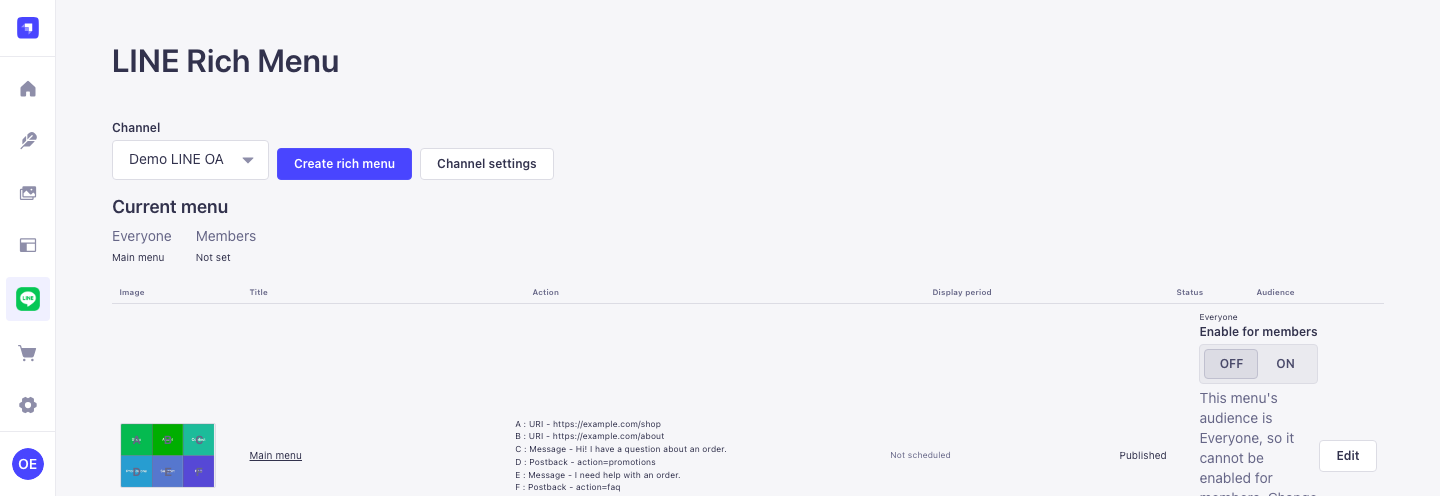
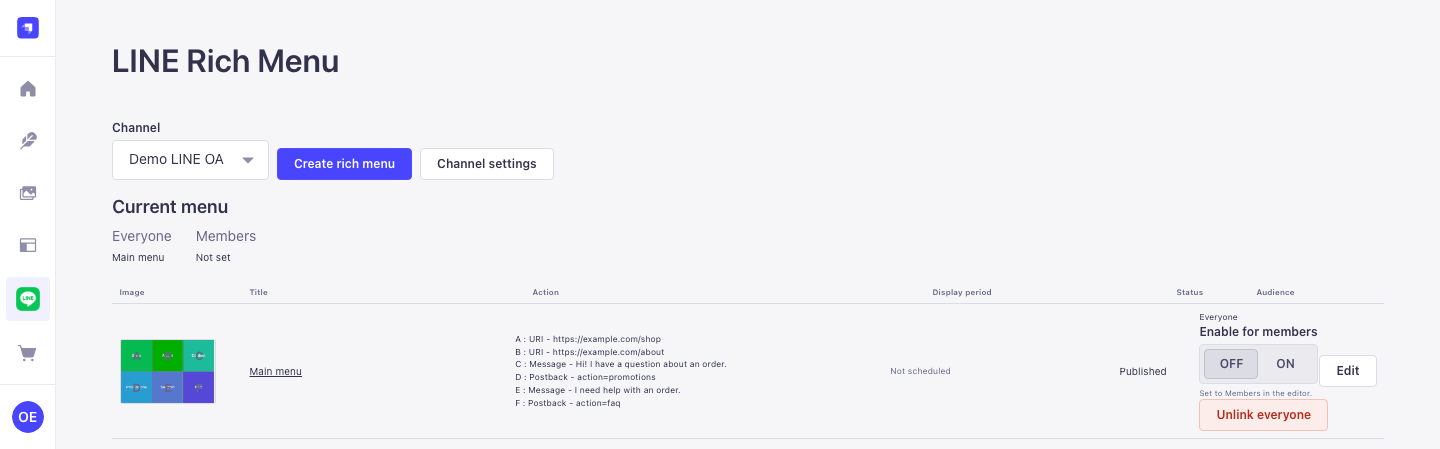
fix(ui): stop the audience cell's explanation from dictating the row height
On the demo the disabled-toggle hint was a full sentence wrapping to eight lines
in a narrow column, pushing one row to roughly 400px tall, and "Unlink everyone"
was breaking mid-phrase into what read as two stacked buttons.

Three changes, smallest first:

- The copy said what the neighbouring columns already show. Audience prints
  "Everyone" directly above the switch and Status prints "Published" beside it,
  so "This menu's audience is Everyone, so it cannot be enabled for members.
  Change its audience to Members in the editor first." spent seven lines to add
  one instruction. It is now "Set to Members in the editor." — the same for the
  unpublished case, which had the same shape.
- The hint renders as a hint: smaller than body text, muted, using the port's
  theme rather than a hardcoded colour.
- `minWidth` on the cell, not `nowrap`. The text must still be allowed to wrap —
  Thai and English are different lengths and the window is resizable — what has
  to stop is a column so narrow that a short sentence becomes a paragraph. The
  Unlink button gets `nowrap` specifically, because a button whose label breaks
  reads as two buttons.

Screenshots reshot and inspected, not just regenerated.

Claude-Session: https://claude.ai/code/session_01Hvr9oQVyK1MpQbfYnv15Uo

diff --git a/packages/ui/src/pages/RichMenuList.tsx b/packages/ui/src/pages/RichMenuList.tsx
@@ -188,7 +188,11 @@ export function RichMenuList({ channelId }: { channelId: string | null }) {
               </button>
             </div>
 
-            <div role="cell" style={{ ...cell, flexDirection: 'column', alignItems: 'flex-start' }}>
+            {/* `minWidth` ที่นี่ ไม่ใช่ `whiteSpace: nowrap` — คำอธิบายใต้สวิตช์ต้องขึ้นบรรทัดใหม่ได้
+                (ภาษาไทยกับอังกฤษยาวไม่เท่ากัน และผู้ใช้ย่อหน้าต่างได้) สิ่งที่ต้องกันคือคอลัมน์ที่แคบ
+                จนประโยคสั้น ๆ ตัดเป็นสิบบรรทัดแล้วดันความสูงของทั้งแถวขึ้นไปหลายร้อยพิกเซล ซึ่งเป็น
+                อาการที่เห็นจริงบนเดโม — ปุ่ม "Unlink everyone" ก็ถูกตัดกลางคำด้วยเหตุผลเดียวกัน */}
+            <div role="cell" style={{ ...cell, flexDirection: 'column', alignItems: 'flex-start', minWidth: 190 }}>
               {menu.areas.length === 0
                 ? <span style={{ color: theme.mutedText }}>—</span>
                 : menu.areas.map((area, index) => (
@@ -230,6 +234,9 @@ export function RichMenuList({ channelId }: { channelId: string | null }) {
                   บรรทัดเดียวที่อยู่เหนือปุ่มนี้ขึ้นบรรทัดเดียวก็ครอบทั้งสองปุ่มได้อยู่แล้วเพราะเหตุผล
                   เดียวกันเป๊ะ ๆ ซ้ำคำจะดูเหมือนบั๊ก UI มากกว่าช่วยอะไร (ตัดสินใจตามที่ brief เปิดทางไว้:
                   "or the control needs a different treatment") */}
+              {/* ห่อด้วย nowrap เพราะคอลัมน์นี้แคบพอที่ "Unlink everyone" จะถูกตัดกลางเป็นสองบรรทัด
+                  ปุ่มที่ข้อความขึ้นบรรทัดใหม่อ่านเหมือนปุ่มสองปุ่มซ้อนกัน */}
+              <div style={{ whiteSpace: 'nowrap' }}>
               <ui.Button
                 variant="danger"
                 testId={`unlink-all-${menu.id}`}
@@ -238,6 +245,7 @@ export function RichMenuList({ channelId }: { channelId: string | null }) {
               >
                 {t('audience.unlinkAll')}
               </ui.Button>
+              </div>
               {unlinkAllSentAt?.menuId !== menu.id ? null : (
                 <span data-testid={`unlink-all-result-${menu.id}`}>
                   {t('audience.sent', { time: formatClockTime(unlinkAllSentAt.at) })}

diff --git a/packages/ui/src/components/AudienceToggle.tsx b/packages/ui/src/components/AudienceToggle.tsx
@@ -24,7 +24,7 @@ export interface AudienceToggleProps {
  * ต้องระวังคำนี้เป็นพิเศษ ห้ามใช้คำที่สื่อว่ายืนยันการรับได้แล้ว
  */
 export function AudienceToggle({ menu, onChanged }: AudienceToggleProps) {
-  const { ui, http, t } = usePort()
+  const { ui, http, t, theme } = usePort()
   const [audience, setAudience] = useState<ChannelAudience | null>(null)
   const [confirming, setConfirming] = useState(false)
   // จำนวนสมาชิกที่ใช้ในกล่องยืนยัน — แยกจาก `audience.memberCount` ตั้งใจ (Task 11 fix round 1):
@@ -174,7 +174,9 @@ export function AudienceToggle({ menu, onChanged }: AudienceToggleProps) {
           ตอน `active` เป็น true (Task 14b item 1): สวิตช์กดได้อยู่แล้วเพื่อ "ปิด" ข้อความที่บอกว่าเปิดให้
           สมาชิกไม่ได้จึงเป็นคำแนะนำผิดทิศทาง — ผู้ใช้ต้องการปิด ไม่ใช่เปิด */}
       {disabledReasonKey === null ? null : (
-        <ui.Typography textColor="neutral600">{t(disabledReasonKey)}</ui.Typography>
+        <span style={{ color: theme.mutedText, fontSize: '.78rem', lineHeight: 1.35 }}>
+          {t(disabledReasonKey)}
+        </span>
       )}
 
       {error === null ? null : <ui.Alert variant="danger">{error}</ui.Alert>}
